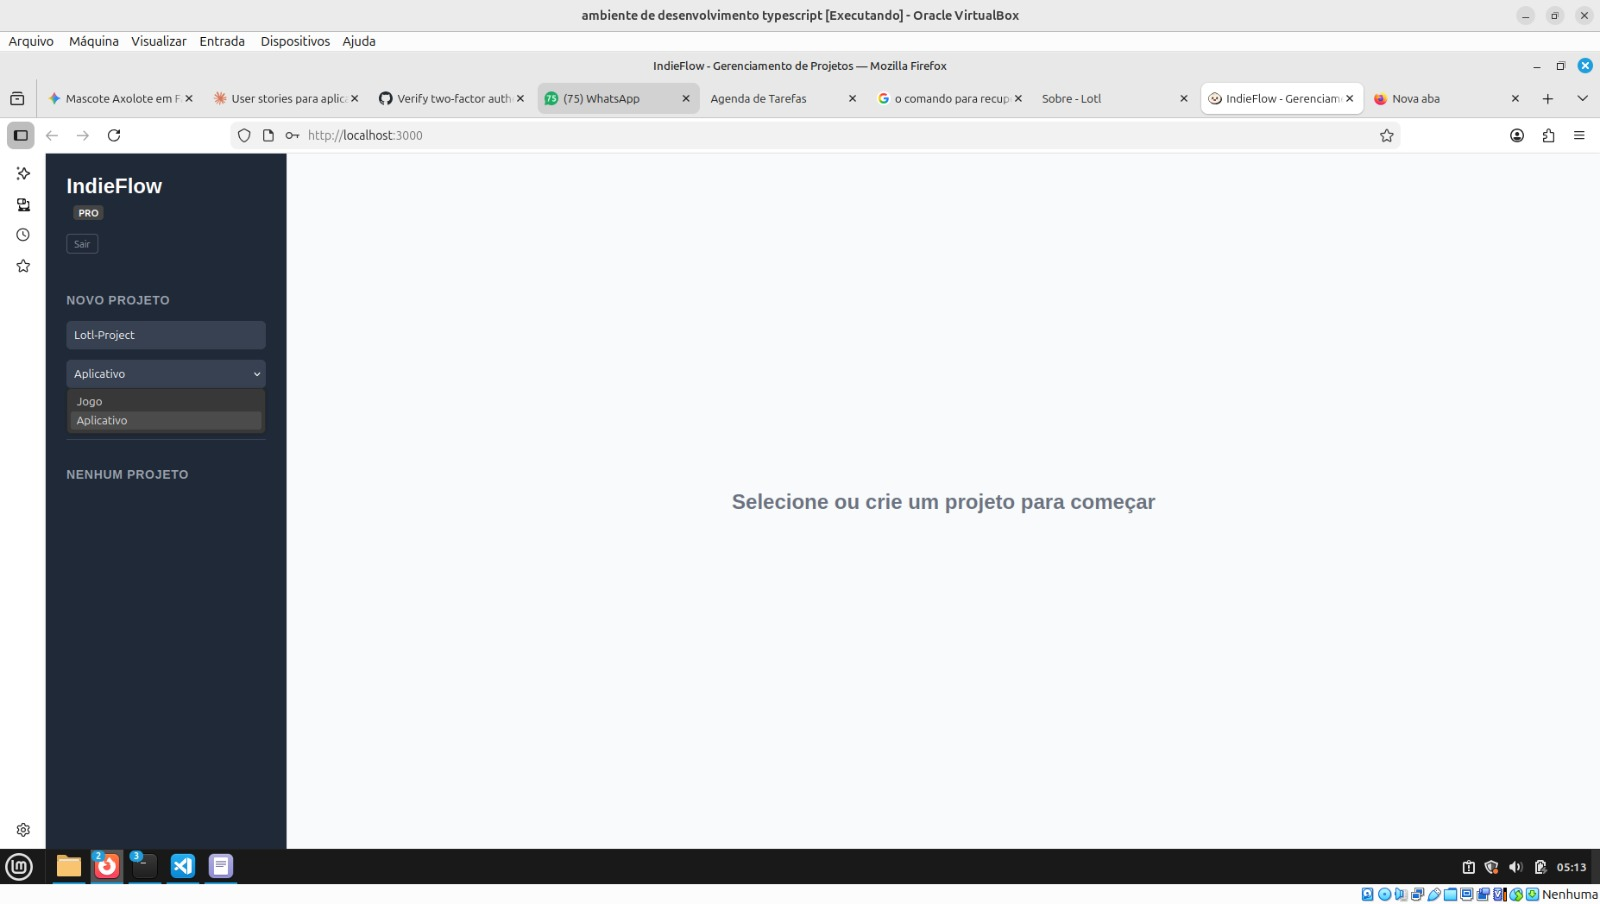
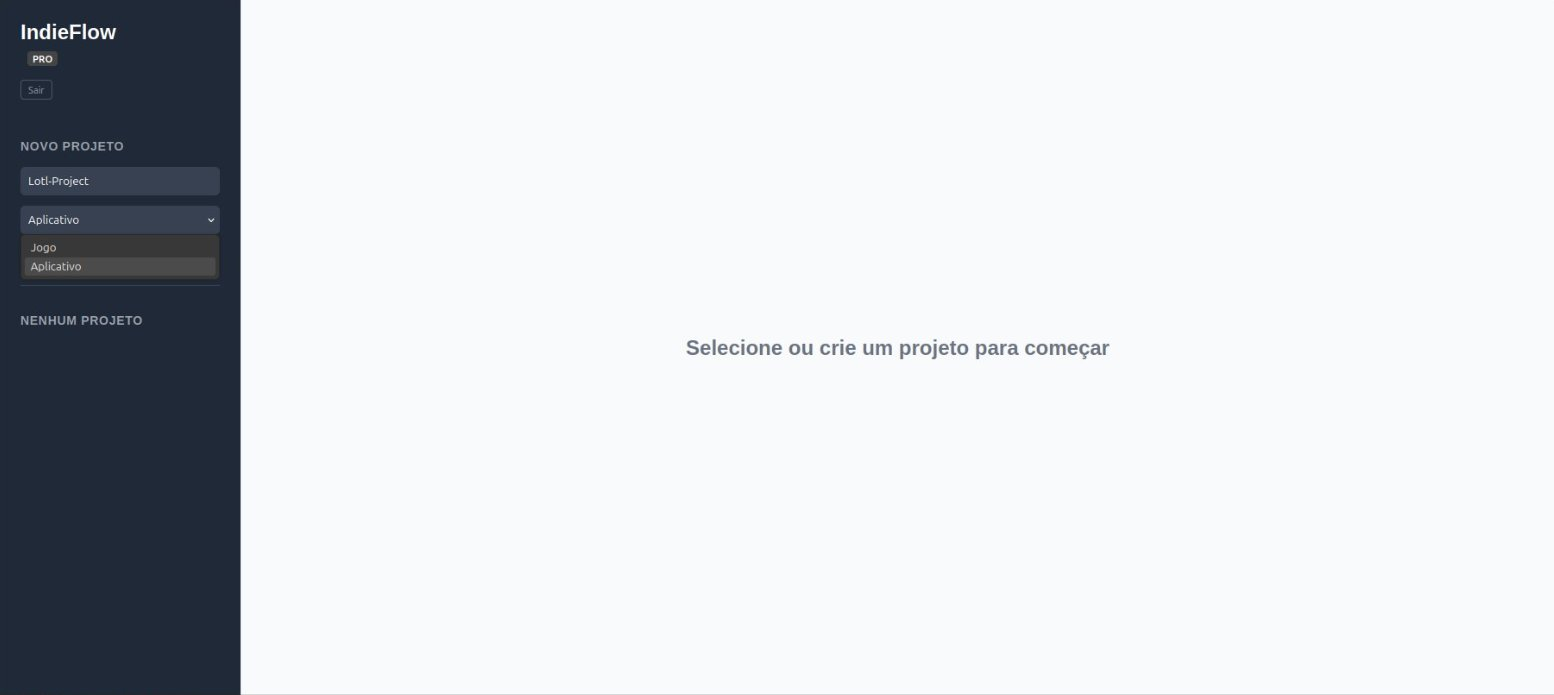
style(home): adjust aspect ratio in feature-carousel

diff --git a/styles/index.css b/styles/index.css
@@ -87,6 +87,11 @@
   text-align: justify;
 }
 
+#carouselExample .carousel-item img{
+  width: 100%;
+  aspect-ratio: 16 / 9;
+}
+
 @media (max-width:900px){
   div .flex-row-1300-900 img{
     width: 100vw !important;
